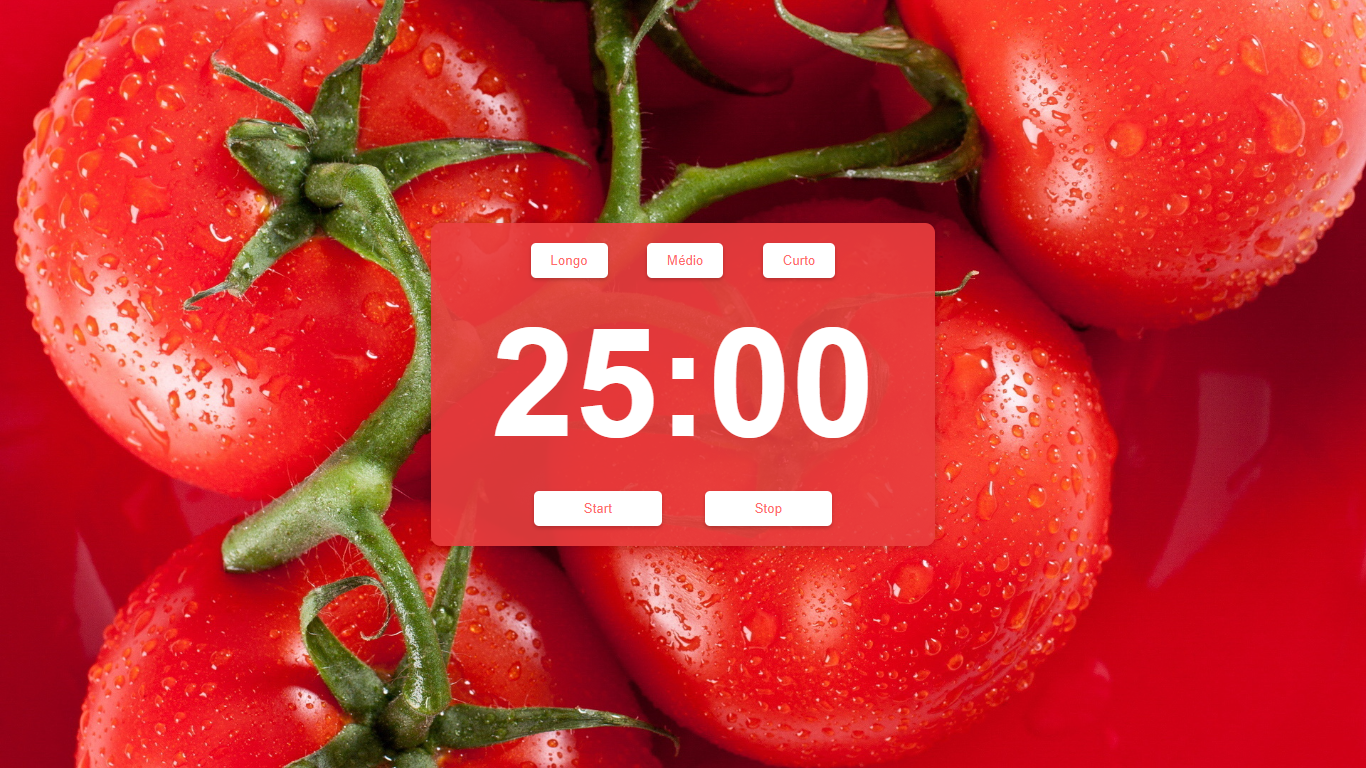
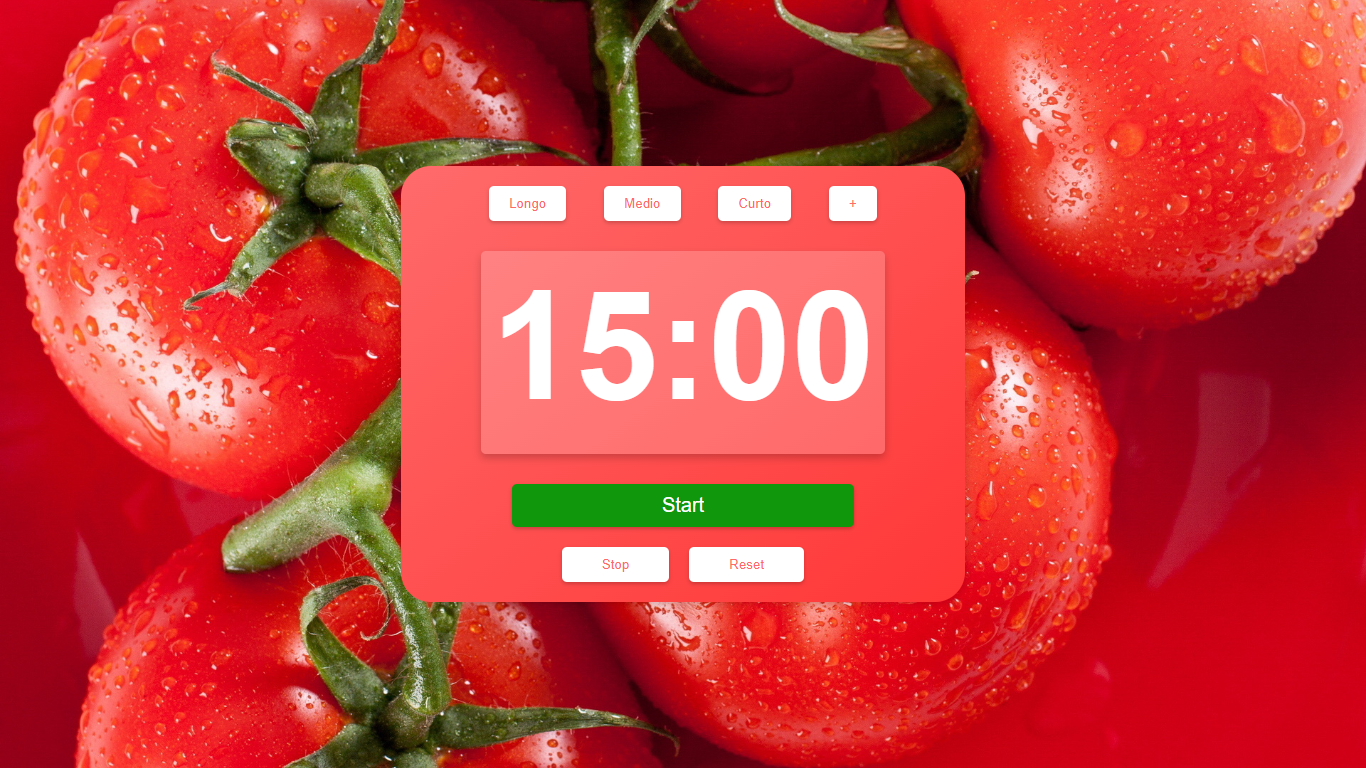
Update

Changed region(s): [[0.2767, 0.2188, 0.7072, 0.7812]]

diff --git a/src/styles.css b/src/styles.css
@@ -20,8 +20,8 @@ body {
 
 .container {
   background: linear-gradient(to bottom right, #ff6b6b, #ff3636);
-  padding: 20px 60px;
-  border-radius: 30px;
+  padding: 25px 10px;
+  border-radius: 20px;
   box-shadow: 0px 0px 10px rgba(0, 0, 0, 0.2);
   text-align: center;
 }
@@ -38,6 +38,7 @@ body {
   border: none;
   border-radius: 5px;
   padding: 10px 20px;
+  width: 80px;
   cursor: pointer;
   box-shadow: 0px 2px 4px rgba(0, 0, 0, 0.2);
   transition: background-color 0.3s, box-shadow 0.3s;
@@ -141,6 +142,14 @@ body {
 
 @media(max-width: 700px){
     .container{
-      padding: 25px 10px;
+      padding: 20px 5px;
+    }
+
+    .div-principal{
+      font-size: 50px;
+    }
+
+    .contador{
+      font-size: 140px;
     }
 }
